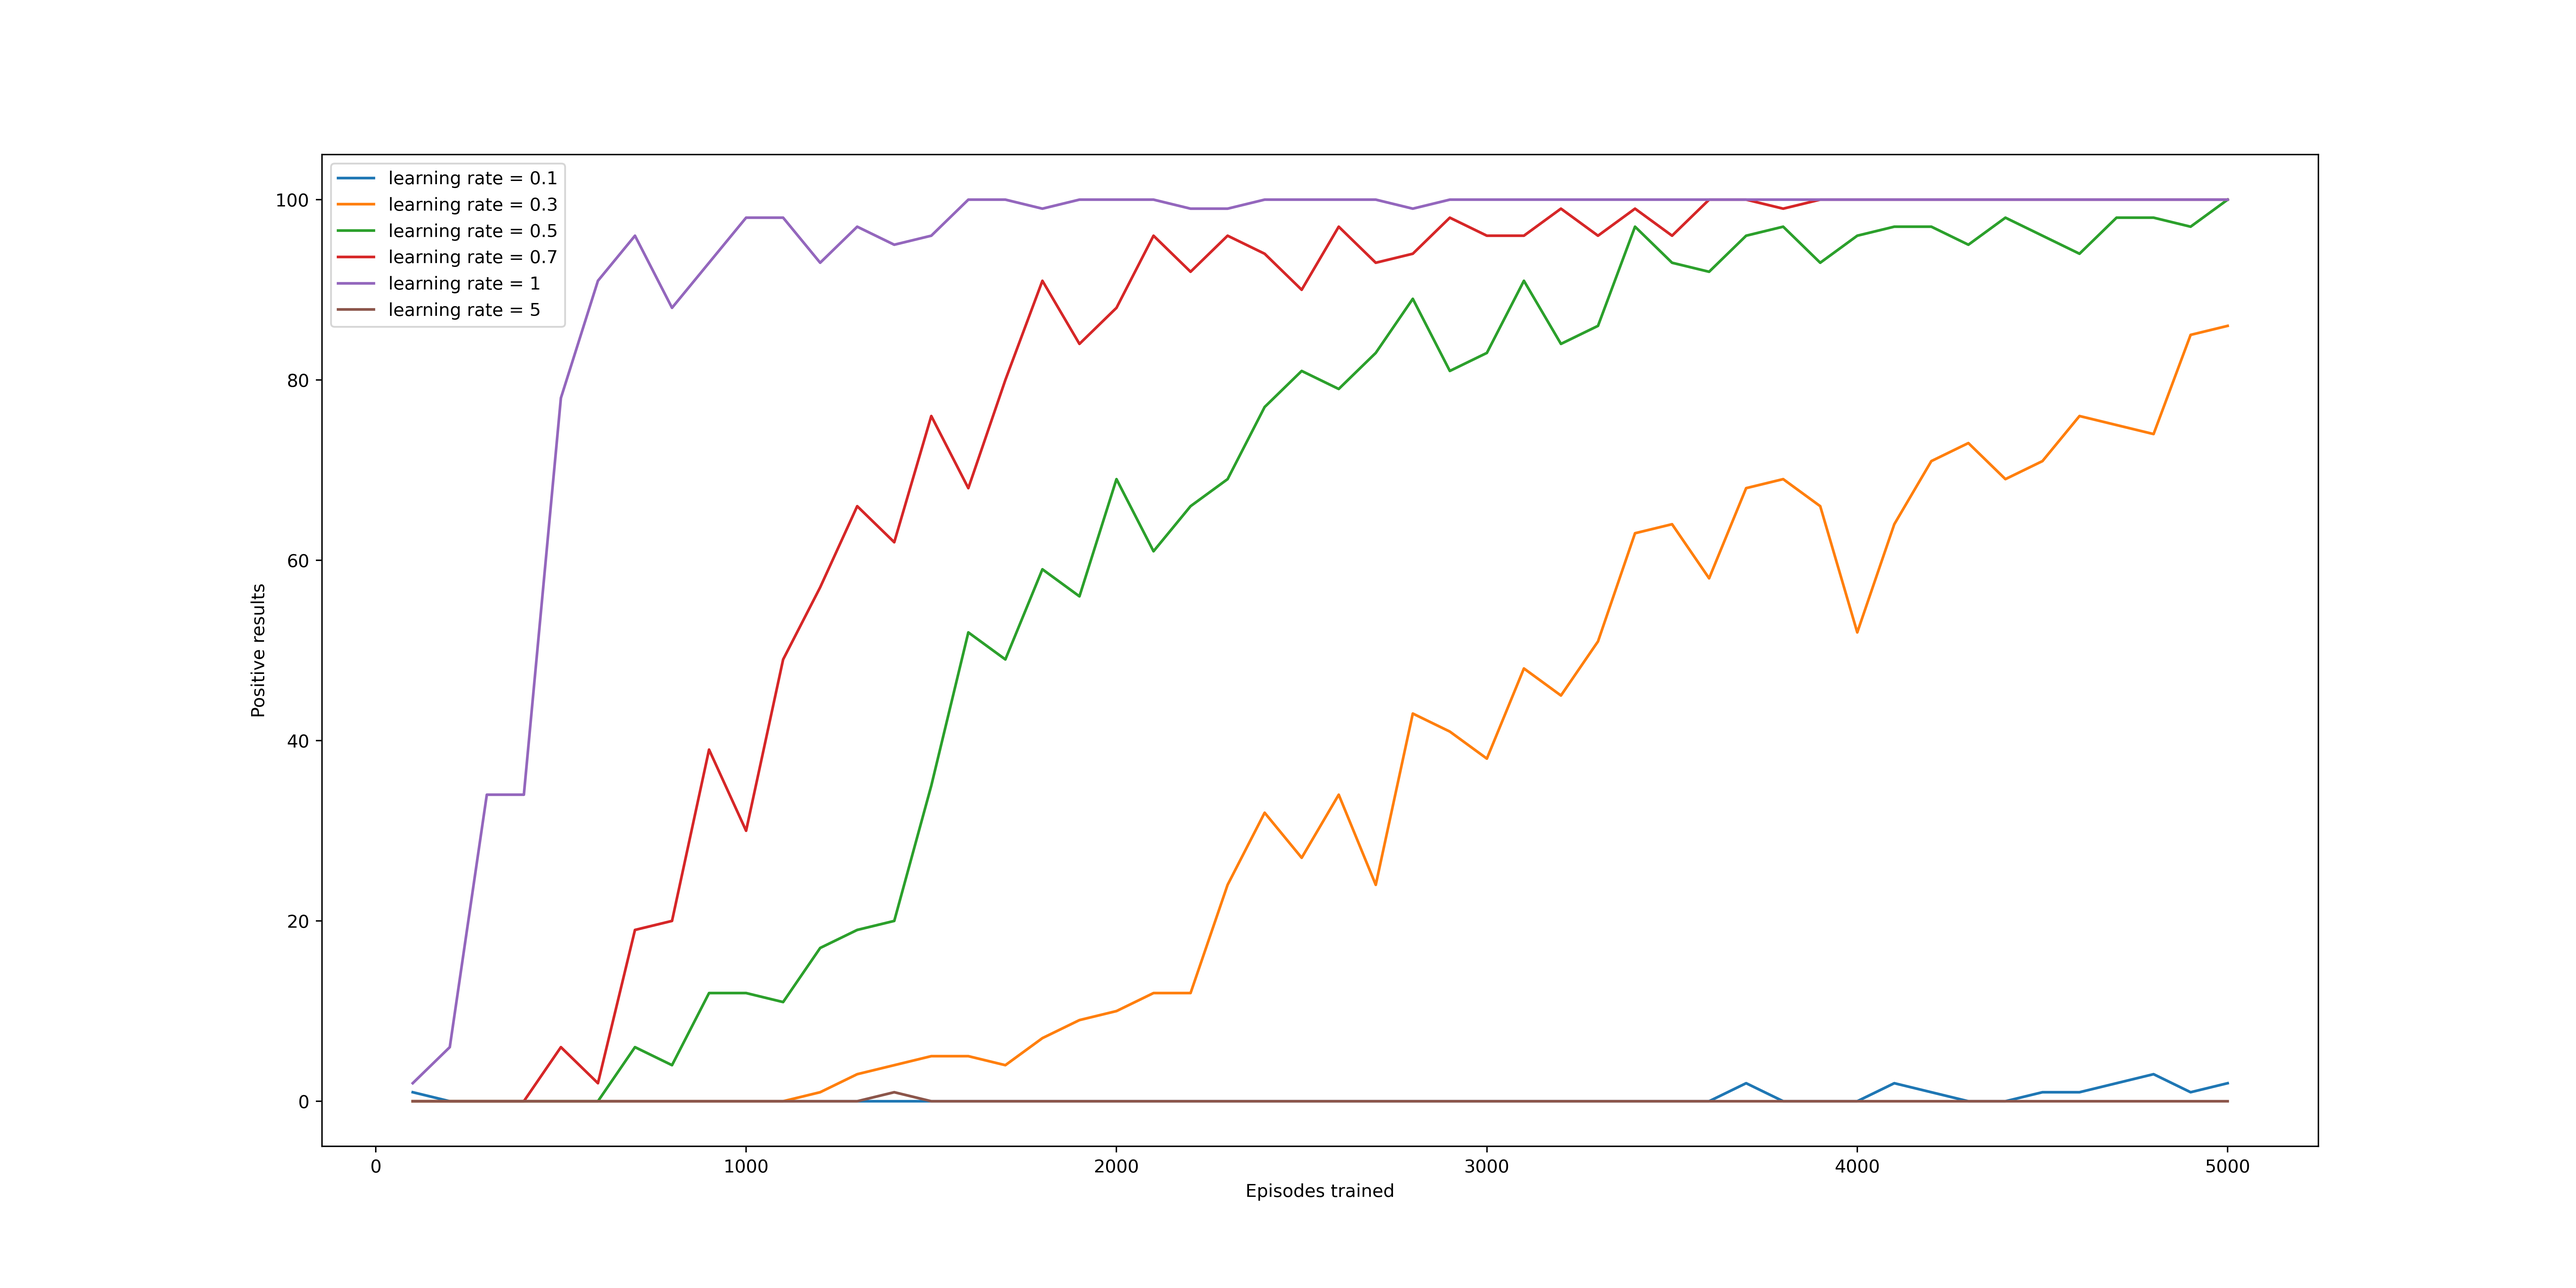
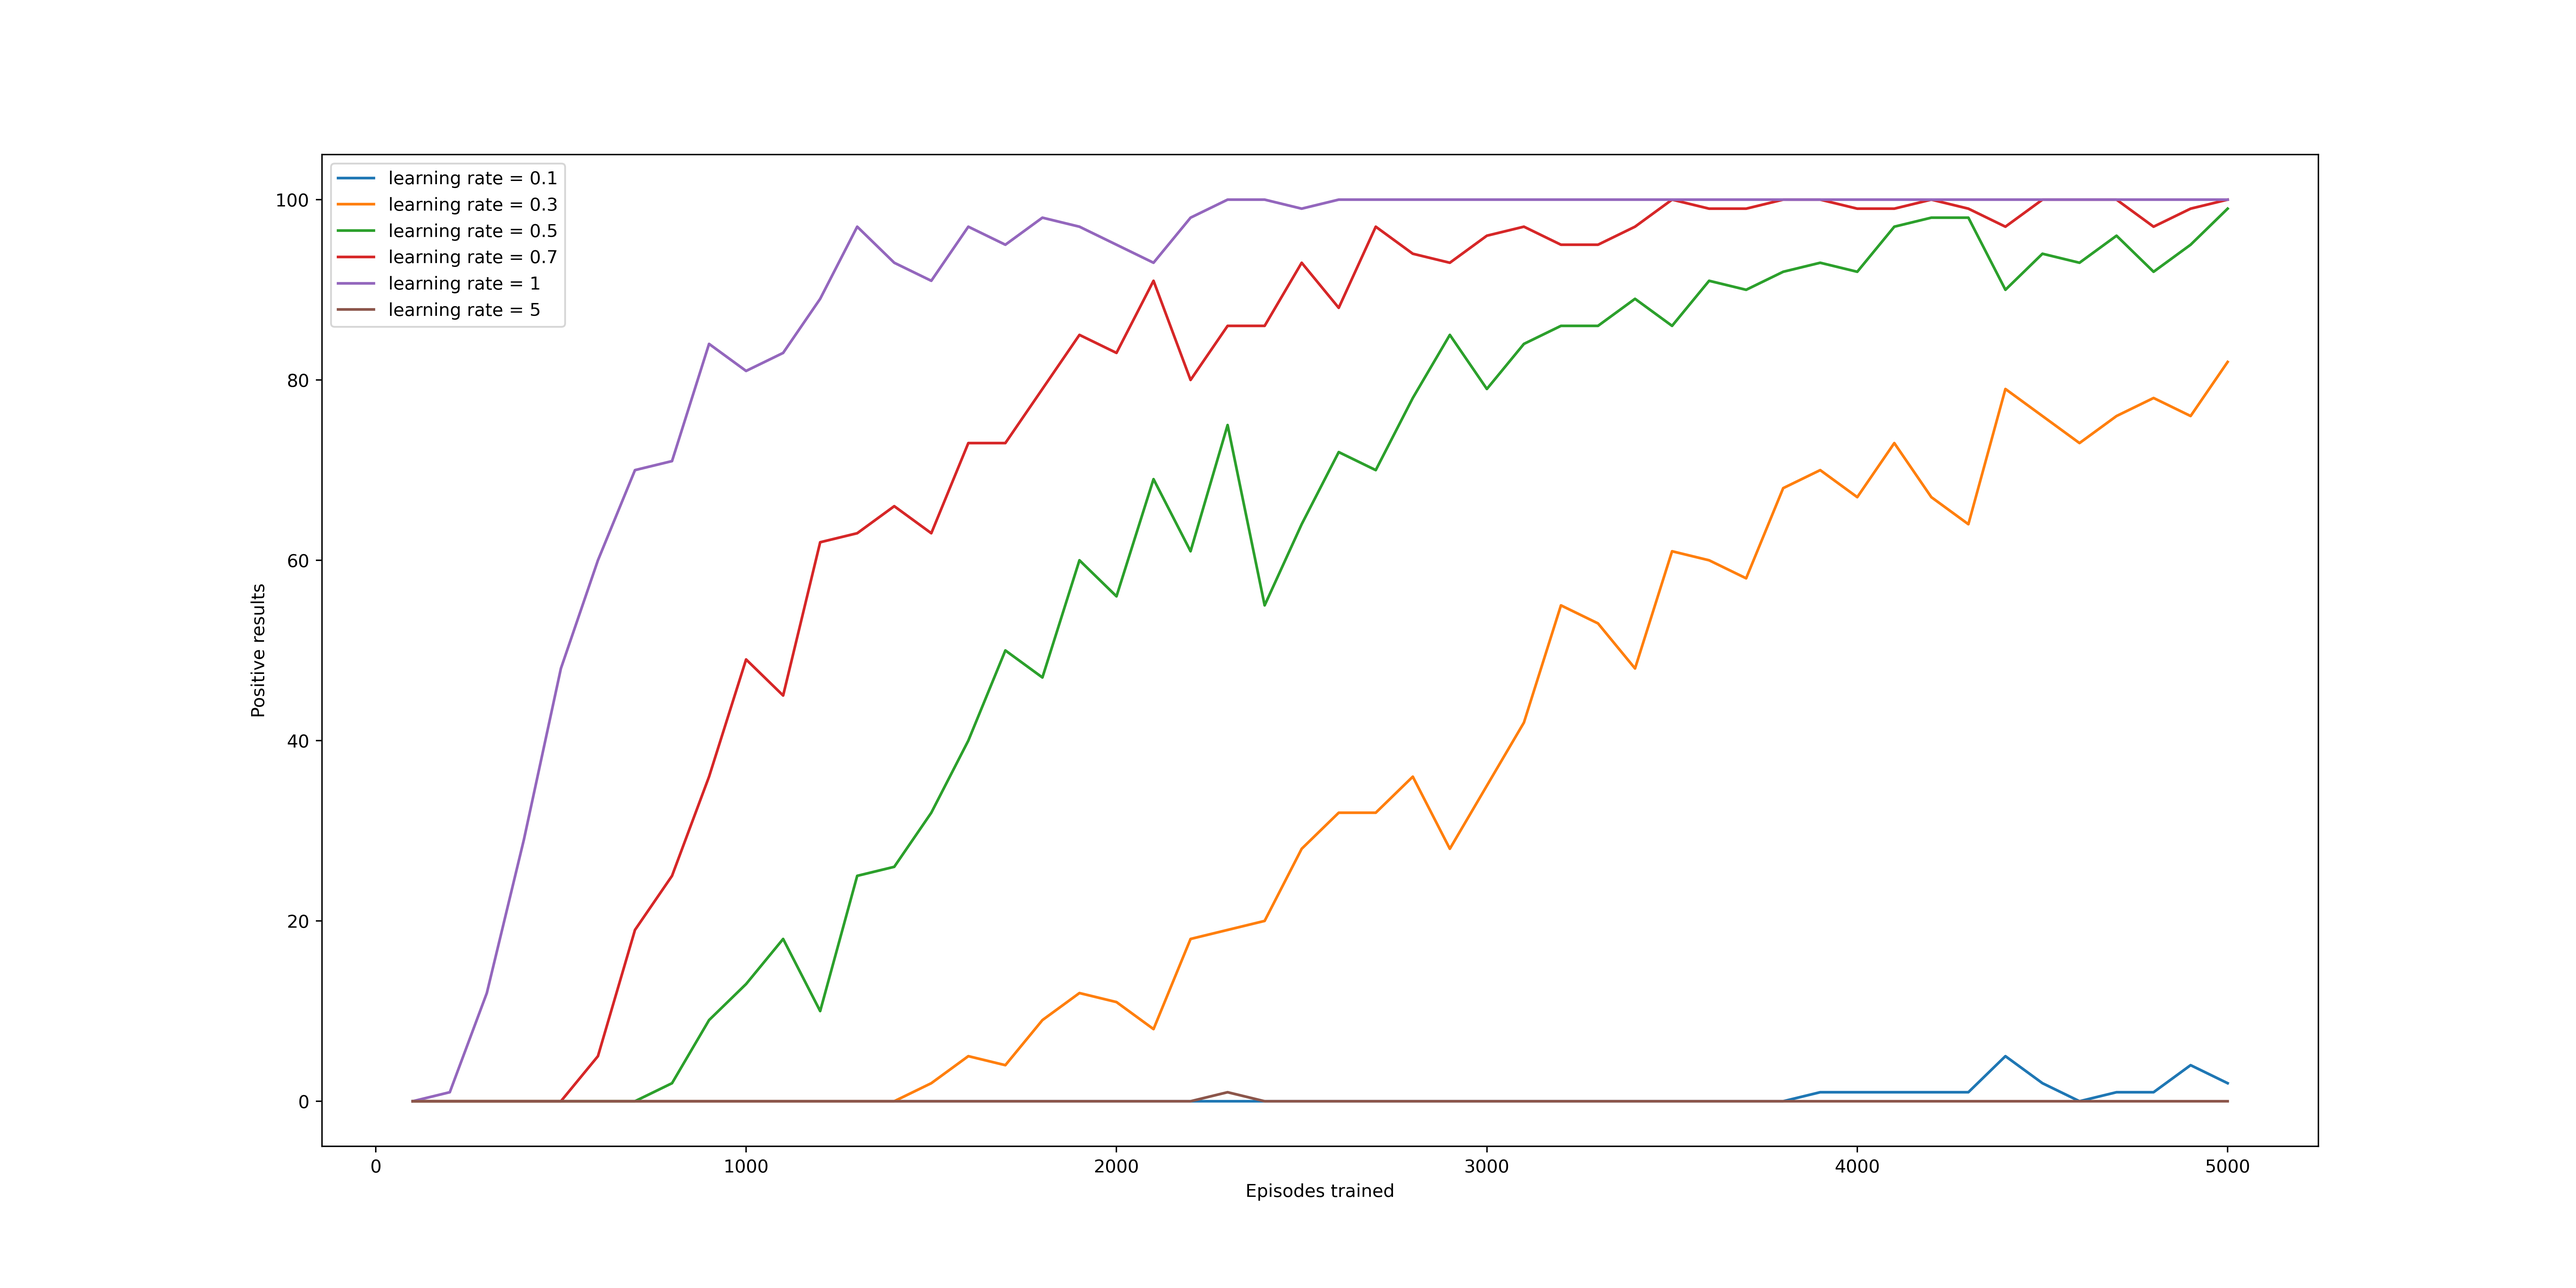
boltzmann and greedy

diff --git a/Qlearning/Qtest.py b/Qlearning/Qtest.py
@@ -9,15 +9,16 @@ def test_boltzmann():
     moves = 50
     test_moves = 50
     learning_rates = [0.1,0.3,0.5,0.7,1,5]
-    results = []
-    episodesList = []
     Q_learn = Q_learning(initial_value=0, learning_rate=0.5, env=envi, discount_factor=0.1, from_jason=False, tau=2)
     fig, ax = plt.subplots()
+    fig.set_figheight(10)
+    fig.set_figwidth(20)
     ax.set_xlabel("Episodes trained")
     ax.set_ylabel("Positive results")
     for learning_rate in learning_rates:
+        results, episodesList = [], []
         Q_learn.learning_rate = learning_rate
-        for i in range(1):
+        for i in range(50):
             Q_learn.trainBoltzmann(episodes=episodes, turns=moves)
             miniresults = Q_learn.test(episodes=episodes, turns=test_moves, useBoltzmann=True)
             results.append(miniresults["boltzmann"]["positive"])
@@ -56,5 +57,5 @@ def test_greedy():
     envi.close()
 
 if __name__ == "__main__":
-    #test_boltzmann()
-    test_greedy()
+    test_boltzmann()
+    #test_greedy()

diff --git a/Qlearning/Qlearn.py b/Qlearning/Qlearn.py
@@ -23,7 +23,7 @@ class Q_learning:
     def generateTable(self):
         Q_dict = dict()
         for i in range(500):
-            Q_dict[i] = [0 for _ in range(6)]
+            Q_dict[i] = [random.uniform(-1, 1) for _ in range(6)]
         return Q_dict
     
     def greedyChoice(self, state):
@@ -59,9 +59,16 @@ class Q_learning:
         moveProb = []
         denominator = 0
         for qvalue in moves:
-            denominator += math.exp((qvalue)/self.tau)
+            try:
+                denominator += math.exp((qvalue)/self.tau)
+            except OverflowError:
+                denominator = float('inf')
+                break
         for qvalue in moves:
-            moveProb.append(math.exp((qvalue)/self.tau)/denominator)
+            try:
+                moveProb.append(math.exp((qvalue)/self.tau)/denominator)
+            except OverflowError:
+                moveProb.append(0.0)
         values = [0,1,2,3,4,5]
         return random.choices(values, moveProb)[0]
 
